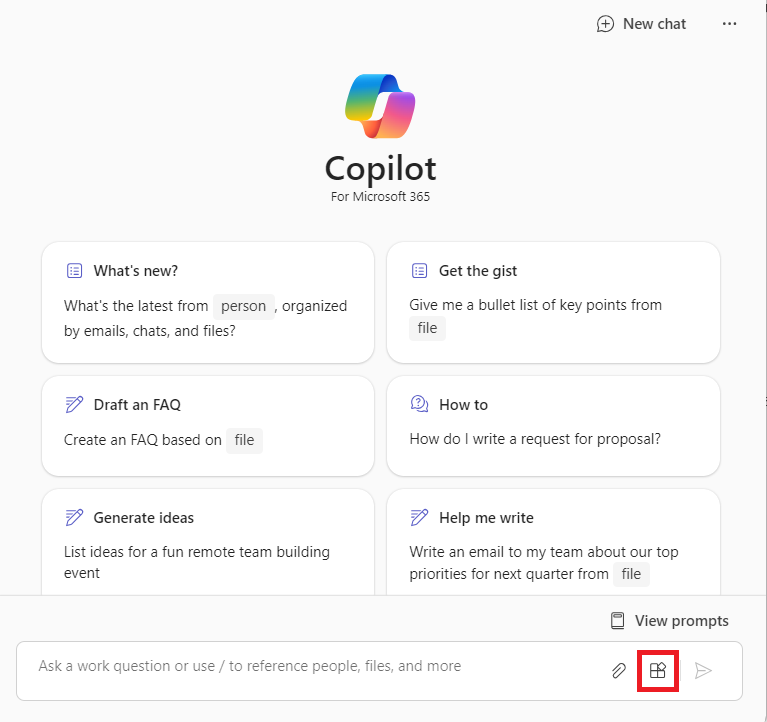
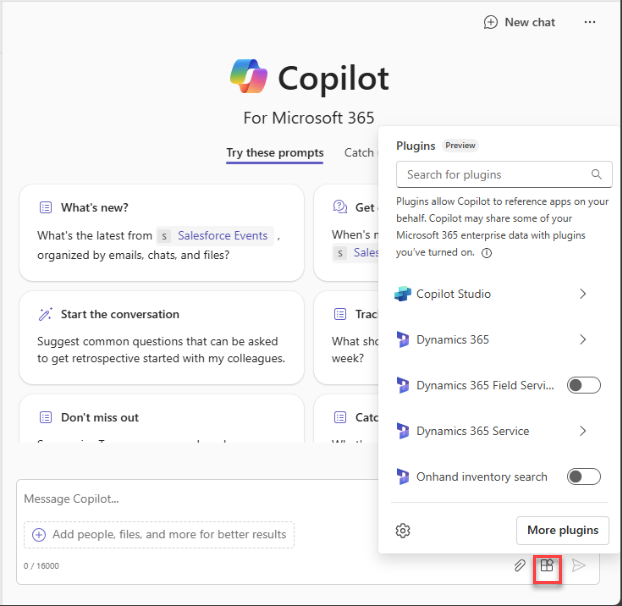
updates to deploying D365 plugins

diff --git a/docs/overview-business-applications.md b/docs/overview-business-applications.md
@@ -1,6 +1,6 @@
 ---
 title: Extend with actions using Microsoft Copilot Studio
-description: Extend Copilot for Microsoft 365 using Microsoft Power Platform and Microsoft Copilot Studio
+description: Extend Copilot for Microsoft 365 using Microsoft Power Platform and Microsoft Copilot Studio.
 author: jhaskett-msft
 ms.author: jhaskett
 ms.topic: overview
@@ -23,7 +23,7 @@ Using Dynamics 365 and Power Platform, you can create actions for Microsoft Copi
 
 ## Actions for Microsoft Copilot
 
-Actions for Microsoft Copilot in Power Platform leverage Dynamics 365 apps and Power Platform components such as Power Automate flows, certified connectors or prompts to define a specific business behavior that you can add to Microsoft Copilot. Copilot will use the appropriate action to address the questions of an end user in the application. The following built-in actions are available.
+Actions for Microsoft Copilot in Power Platform leverage Dynamics 365 apps and Power Platform components such as Power Automate flows, certified connectors, or prompts to define a specific business behavior that you can add to Microsoft Copilot. Copilot will use the appropriate action to address the questions of an end user in the application. The following built-in actions are available.
 
 - Microsoft Dynamics 365 apps
   - [Dynamics 365 Sales](/dynamics365/sales/microsoft-365-copilot-for-sales) (preview)
@@ -43,7 +43,7 @@ Actions for Microsoft Copilot in Power Platform leverage Dynamics 365 apps and P
   - List my tasks from To Do and Planner
   - List my pending approvals
 
-You can also create new actions using Power Platform components in Microsoft Copilot Studio. For more information, see [Create and configure copilot actions (preview)](/microsoft-copilot-studio/copilot-plugins-overview).
+You can also create new actions using Power Platform components in Microsoft Copilot Studio. Learn more in [Copilot connectors, actions, and extensions overview (preview)](/microsoft-copilot-studio/copilot-plugins-overview).
 
 ## Get Copilot for Microsoft 365 licenses and enable plugins
 
@@ -55,26 +55,40 @@ You can also create new actions using Power Platform components in Microsoft Cop
 
 ## Deploy a plugin
 
+To deploy a plugin, sign in to the Microsoft 365 admin center and locate the plugin in the list of Integrated Apps. Select the plugin you want and follow the steps to complete the deployment.
+
+To find Power Automate flows, search for "Power Automate". For Power Platform connector plugins, search for the respective connector name. For example, FreshDesk.
+
+To find Dynamics 365 plugins for Copilot for Microsoft 365, search for "Dynamics 365". The search results will show the available Dynamics 365 plugins. 
+
+|For                                   |  Select                           |
+|--------------------------------------|-----------------------------------|
+|Dynamics 365 Field Service plugin     | **Dynamics 365 FieldService**     |
+|Dynamics 365 Customer Service plugin  | **Dynamics 365 Service**          |
+|Dynamics 365 Sales plugin             | **Dynamics 365**                  |
+|Dynamics 365 Supply Chain plugin      | **Dynamics 365 Supply Chain**     |
+
+
+> [!NOTE]
+> The plugin must be enabled for your environment to appear in the Integrated Apps list.
+
+In this example, we'll deploy the Dynamics 365 Field Service plugin:
+
 1. Sign in to the Microsoft 365 admin center with your admin account.
 1. Expand **Settings** on the side navigation pane and select **Integrated apps**.
-1. Under the **Available apps** tab, search for the plugin you want to deploy.
+1. Under the **Available apps** tab, search for the Dynamics 365 Field Service plugin using the string "Dynamics 365". You might also try "field" or "service."
 
-    :::image type="content" source="assets/images/overview-business-applications/integrated-apps-dynamics365.png" alt-text="This screenshot shows Microsoft Dynamics 365 as an available integrated app in Microsoft 365 admin center." lightbox="assets/images/overview-business-applications/integrated-apps-dynamics365.png":::
+    :::image type="content" source="assets/images/overview-business-applications/integrated-apps-dynamics365-field.png" alt-text="Screenshot showing Microsoft Dynamics 365 Field Service as an available integrated app in Microsoft 365 admin center.":::
 
-    > [!TIP]
-    >
-    > - For Power Automate flows, search for "Power Automate" app.
-    > - For Power Platform connector plugins, search for the respective connector names. For example, FreshDesk.
+1. Select the integrated app containing the plugin to deploy. For our example, we'll select **Dynamics 365 FieldService**.
 
-1. Select an integrated app containing the plugin to deploy.
+1. Select **Next** to open the **Users** tab.
 
-    :::image type="content" source="assets/images/overview-business-applications/microsoft-dynamics-365.png" alt-text="This screenshot shows Microsoft 365 admin center section where you can deploy or block an integrated app." lightbox="assets/images/overview-business-applications/microsoft-dynamics-365.png":::
+1. Choose to deploy for all users, a specific set of users, or yourself.
 
-1. Select **Next** to open the **Users** tab, choose to deploy for all users, a specific set of users, or yourself.
+    :::image type="content" source="assets/images/overview-business-applications/microsoft-dynamics-365-field.png" alt-text="Screenshot showing the option to deploy an app to all users or to specific users.":::
 
-    :::image type="content" source="assets/images/overview-business-applications/deploy-d365.png" alt-text="This screenshot shows the option to deploy an app to all users or to specific users.":::
-
-1. Select **Next** and complete the remaining steps to deploy the app. It may take up to 12 hours for the deployed app's plugin to show in Copilot for Microsoft 365.
+1. Select **Next** and complete the remaining steps to deploy the app. It might take up to four hours for the deployed app's plugin to show in Copilot for Microsoft 365.
 
 > [!NOTE]
 > The apps that appear under **Integrated apps** are sometimes referred to as "titles".
@@ -83,43 +97,39 @@ You can also create new actions using Power Platform components in Microsoft Cop
 
 You can use the built-in actions shipped by Microsoft in your Copilot for Microsoft 365 app in Microsoft Teams.
 
-1. Login to Microsoft Teams app.
+1. Log in to Microsoft Teams app.
 
-1. Open the Copilot app. If the Copilot app isn't in your sidebar, search in the Teams app store. A plugins icon is present in the text prompt.
-
-    :::image type="content" source="assets/images/overview-business-applications/plugin-flyout.png" alt-text="This screenshot shows the Copilot for Microsoft 365 app with the plugins icon highlighted.":::
+1. Open the Copilot app. If the Copilot app isn't in your sidebar, search in the Teams app store. 
 
 1. Select the plugins icon and enable the plugin you want to use from the plugin flyout.
 
-    :::image type="content" source="assets/images/overview-business-applications/plugins.png" alt-text="This screenshot shows the plugins listed in chat experience.":::
+    :::image type="content" source="assets/images/overview-business-applications/plugin-flyout.png" alt-text="Screenshot showing the plugins listed in the chat experience.":::
 
 1. Start a natural language conversation and get results.
 
-    :::image type="content" source="assets/images/overview-business-applications/example.png" alt-text="This screenshot shows an example text for search and to get the results.":::
-
 ## Create actions
 
-You can create new Copilot action in Microsoft Copilot Studio, which requires a Microsoft Copilot Studio license. For more information, see [Create and configure copilot plugins (preview)](/microsoft-copilot-studio/copilot-plugins-overview).
+You can create new Copilot action in Microsoft Copilot Studio, which requires a Microsoft Copilot Studio license. Learn more in [Copilot connectors, actions, and extensions overview (preview)](/microsoft-copilot-studio/copilot-plugins-overview).
 
 ### Action development paths
 
 There are multiple starting points for action development. You can extend the built-in actions or you can create a new action. For extending the built-in actions, refer to respective action page.
 
-For action creation, you can start with a custom prompt, a Power Platform connector, a Power Automate flow or a conversational action.
+For action creation, you can start with a custom prompt, a Power Platform connector, a Power Automate flow, or a conversational action.
 
 ### Start with a prompt
 
-Prompts allow generating content using natural language which includes summarizing, classifying, extracting entities, translating, assessing sentiment and much more. To learn more, see [Create a custom prompt (preview)](/ai-builder/create-a-custom-prompt?context=/microsoft-365-copilot/extensibility/context).
+Prompts allow generating content using natural language, which includes summarizing, classifying, extracting entities, translating, assessing sentiment, and much more. Learn more in [Create a custom prompt (preview)](/ai-builder/create-a-custom-prompt?context=/microsoft-365-copilot/extensibility/context).
 
 We are adding the ability to use your data to provide improved answers soon.
 
 ### Start with a Power Platform connector
 
-Power Platform connectors allow retrieving and updating data from data sources accessed through APIs. Connectors make it possible to access data from popular Enterprise systems such as Salesforce, Zendesk, MailChimp and Github and are routinely used by makers in their Power Apps and flows. To learn more, see [Create a plugin from a connector (preview)](/connectors/create-a-connector-ai-plugin?context=/microsoft-365-copilot/extensibility/context).
+Power Platform connectors allow retrieving and updating data from data sources accessed through APIs. Connectors make it possible to access data from popular Enterprise systems such as Salesforce, Zendesk, MailChimp, and GitHub, and are routinely used by makers in their Power Apps and flows. Learn more in [Create a plugin from a connector (preview)](/connectors/create-a-connector-ai-plugin?context=/microsoft-365-copilot/extensibility/context).
 
 ### Start with a conversational action
 
-Use Microsoft Copilot Studio to create conversational action that retrieve and integrate data across multiple sources with AI, execute custom logic on the results, access external API's via connectors, and send summary results to the user. To learn more, see [Create a conversational action (preview)](/microsoft-copilot-studio/copilot-conversational-plugins?context=/microsoft-365-copilot/extensibility/context).
+Use Microsoft Copilot Studio to create conversational actions that retrieve and integrate data across multiple sources with AI, execute custom logic on the results, access external APIs via connectors, and send summary results to the user. Learn more in  [Create conversational actions (preview)](/microsoft-copilot-studio/copilot-conversational-plugins?context=/microsoft-365-copilot/extensibility/context).
 
 ## Use actions
 
@@ -127,19 +137,21 @@ After an action is created, publish it so it appears in the Actions page in Micr
 
 ## Known limitations
 
-To comply with data residency requirements, only a subset of environments (top 20) are allowed per tenant with Copilot for Microsoft 365. This is a temporary limit will be removed in the future. Here's how to identify the allowlisted 20 environments:
+To comply with data residency requirements, only a subset of environments (top 20) are allowed per tenant with Copilot for Microsoft 365. This limit is temporary and will be removed in the future. Here's how to identify the allowlisted 20 environments:
 
-1. Open [portal.azure.com](https://portal.azure.com/) and click on the **Tenant** properties. Note down the *Country or Region* associated with your tenant.  
+1. Open [portal.azure.com](https://portal.azure.com/) and select **Tenant** properties.
+ 
+1. Note down the *Country or Region* associated with your tenant.
 
-2. Open [Power Platform Admin Center](https://admin.powerplatform.microsoft.com/), select the **Environments** page and sort all environments by *Type*, *Region* and *Created on* (descending).
+1. Open [Power Platform Admin Center](https://admin.powerplatform.microsoft.com/), select the **Environments** page, and sort all environments by *Type,* *Region,* and *Created on* (descending).
 
-3. In the first 20 environments you find where *Type* is “Production”, the allowlisted environments are the ones with their region matching the region associated with your tenant.
+In the first 20 environments you find where *Type* is “Production,” the allowlisted environments are the ones where the region matches the region associated with your tenant.
 
-4. To test actions in an environment outside of the top 20 that are allowlisted, you can to provision a new environment in the same region. Otherwise, you'll need to wait until the allowlisting limits are removed.  
+To test actions in an environment outside of the top 20 that are allowlisted, you can provision a new environment in the same region. Otherwise, you'll need to wait until the limits are removed.
 
-### See also
+## Related information
 
 - [Create a custom prompt (preview)](/ai-builder/create-a-custom-prompt?context=/microsoft-365-copilot/extensibility/context)
 - [Create a connector action (preview)](/connectors/create-a-connector-ai-plugin?context=/microsoft-365-copilot/extensibility/context)
-- [Create a conversational action (preview)](/microsoft-copilot-studio/copilot-conversational-plugins?context=/microsoft-365-copilot/extensibility/context)
-- [Create a flow action (preview)](/power-automate/flow-plugins-m365?context=/microsoft-365-copilot/extensibility/context)
+- [Create conversational actions (preview)](/microsoft-copilot-studio/copilot-conversational-plugins?context=/microsoft-365-copilot/extensibility/context)
+- [Use Power Automate flow actions (preview)](/power-automate/flow-plugins-m365?context=/microsoft-365-copilot/extensibility/context)
